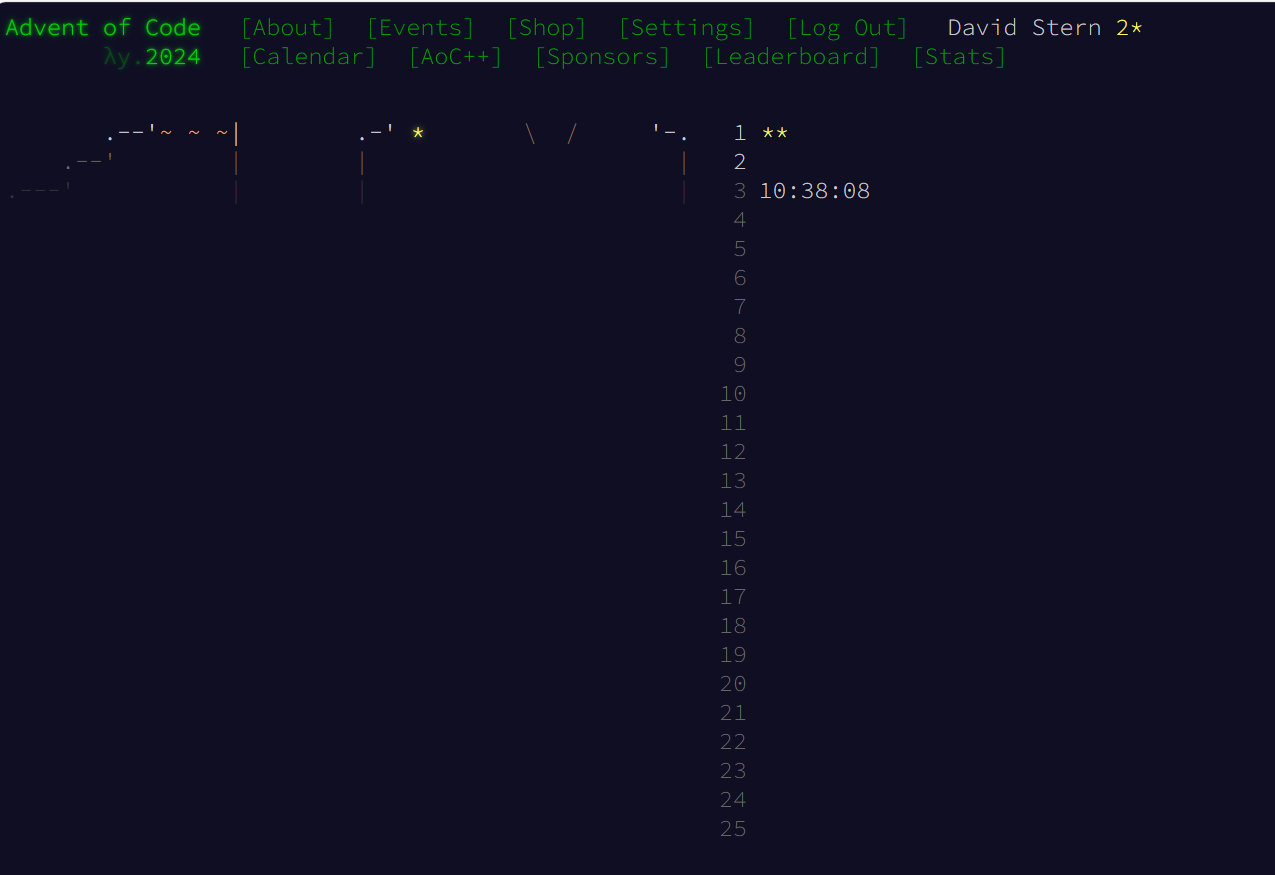
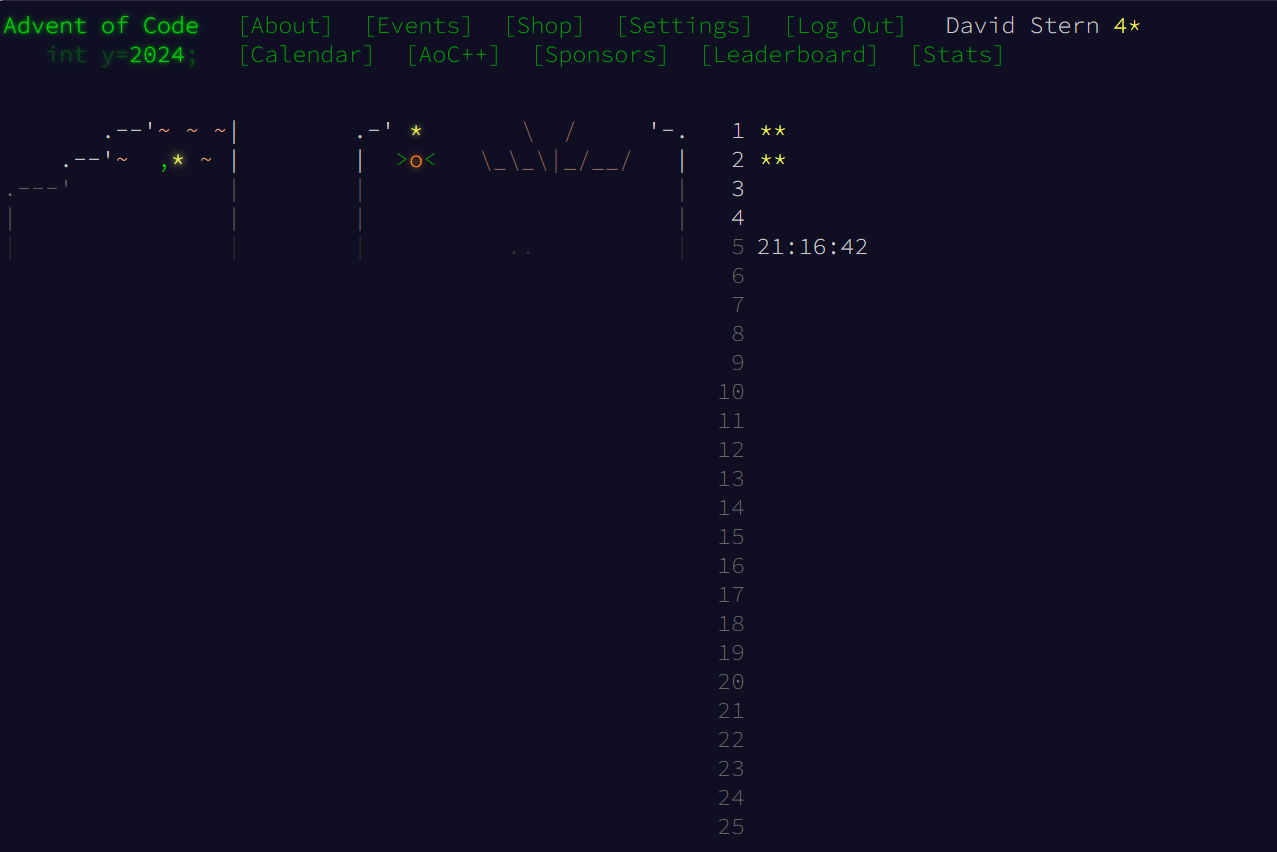
finished day2 part2

diff --git a/src/advent_solutions/day2.rs b/src/advent_solutions/day2.rs
@@ -1,10 +1,12 @@
 
+use std::cmp::Ordering;
+
 use anyhow::Context;
 
 use super::{read_input_file, SolveAdvent};
 pub struct Day2;
 
-#[derive(Debug)]
+#[derive(Debug, Clone)]
 pub struct ReactorReport {
     report: Vec<i64>,
 }
@@ -19,6 +21,44 @@ impl ReactorReport {
         })
     }
 
+    fn level_delta_ok(next_num: &i64, current_num: &i64, last_seen_ordering: &mut Option<Ordering>) -> bool {
+        //! Check if two levels obey the rules outlined in the problem.
+        let delta = next_num - current_num;
+        if delta.abs() > 3 || delta.abs() < 1 {
+            //Delta cannot be gt 3 or lt 1.
+            return false;
+        }
+        //Ordering cannot change.
+        let current_ordering = current_num.cmp(next_num);
+        match last_seen_ordering {
+            None => {
+                *last_seen_ordering = Some(current_ordering);
+            }
+            Some(previous_ordering) => {
+                if previous_ordering != &current_ordering {
+                    return false;
+                }
+            }
+        }
+        true
+    }
+
+    fn is_safe_with_replacement(&self) -> bool {
+        //! Brute-force solution to Part2. Simply try all possible combinations,
+        //! removing one index at a time.
+        if self.is_safe() {
+            return true;
+        }
+        for idx in 0..self.report.len() {
+            let mut new_report = self.clone();
+            new_report.report.remove(idx);
+            if new_report.is_safe() {
+                return true;
+            }
+        }
+        false
+    }
+
     fn is_safe(&self) -> bool {
         //! Determine if a report is safe.
         //! The two rules are that:
@@ -26,25 +66,12 @@ impl ReactorReport {
         //! 2. Any two adjacent levels differ by at least one and at most three.
         let mut last_seen_ordering = None;
         for (current_num, next_num) in self.report.iter().zip(self.report.iter().skip(1)) {
-            let delta = next_num - current_num;
-            if delta.abs() > 3 || delta.abs() < 1 {
+            if !ReactorReport::level_delta_ok(next_num, current_num, &mut last_seen_ordering) {
                 return false;
-            }
-            let current_ordering = current_num.cmp(next_num);
-            match last_seen_ordering {
-                None => {
-                    last_seen_ordering = Some(current_ordering);
-                    continue;
-                }
-                Some(previous_ordering) => {
-                    if previous_ordering != current_ordering {
-                        return false;
-                    }
-                }
             }
         }
         true
-    }
+}
 }
 
 impl  SolveAdvent for Day2 {
@@ -58,10 +85,21 @@ impl  SolveAdvent for Day2 {
                     safe_reports += 1;
                 }
             }
-            println!("There are a total of {safe_reports} safe reports");
+            println!("There are a total of {safe_reports} safe reports.");
             Ok(())
         }
-        fn solve_part2(_path_to_file: &str) -> anyhow::Result<()> {
+        fn solve_part2(path_to_file: &str) -> anyhow::Result<()> {
+            let file_contents = read_input_file(path_to_file)?;
+            let reports: Result<Vec<ReactorReport>, anyhow::Error> = file_contents.lines().map(ReactorReport::try_new).collect();
+            let mut reports = reports?;
+            let mut safe_reports = 0;
+            for report in reports.iter_mut() {
+                if report.is_safe_with_replacement() {
+                    safe_reports += 1;
+                    continue;
+                }
+            }
+            println!("There are a total of {safe_reports} safe reports using problem damper.");
             Ok(())
         }
 }

diff --git a/src/main.rs b/src/main.rs
@@ -4,6 +4,6 @@ use crate::advent_solutions::SolveAdvent;
 
 fn main() -> anyhow::Result<()> {
     Day2::solve_part1("input.txt")?;
-    Day2::solve_part2("test.txt")?;
+    Day2::solve_part2("input.txt")?;
     Ok(())
 }

diff --git a/README.md b/README.md
@@ -1,5 +1,5 @@
-# Explanation
-Just like last year, I am working through the 2024 [Advent of Code](https://adventofcode.com/2024) problems. I currently have `2` stars. Each day's solutions are found in the `/advent_solutions` folder under the day in question. As requested by the creator of the problems, I do not provide the input text, only the code solutions. To run a certain solution, ensure that the correct input text is placed in an `input.txt` file. Just like last year, solutions implement the following trait: 
+## Progress Summary
+Just like last year, I am working through the 2024 [Advent of Code](https://adventofcode.com/2024) problems. I currently have `4` stars. Each day's solutions are found in the `/advent_solutions` folder under the day in question. As requested by the creator of the problems, I do not provide the input text, only the code solutions. To run a certain solution, ensure that the correct input text is placed in an `input.txt` file. Just like last year, solutions implement the following trait: 
 ```rust
 pub trait SolveAdvent {
     ///How to solve part1 of the days puzzle.
